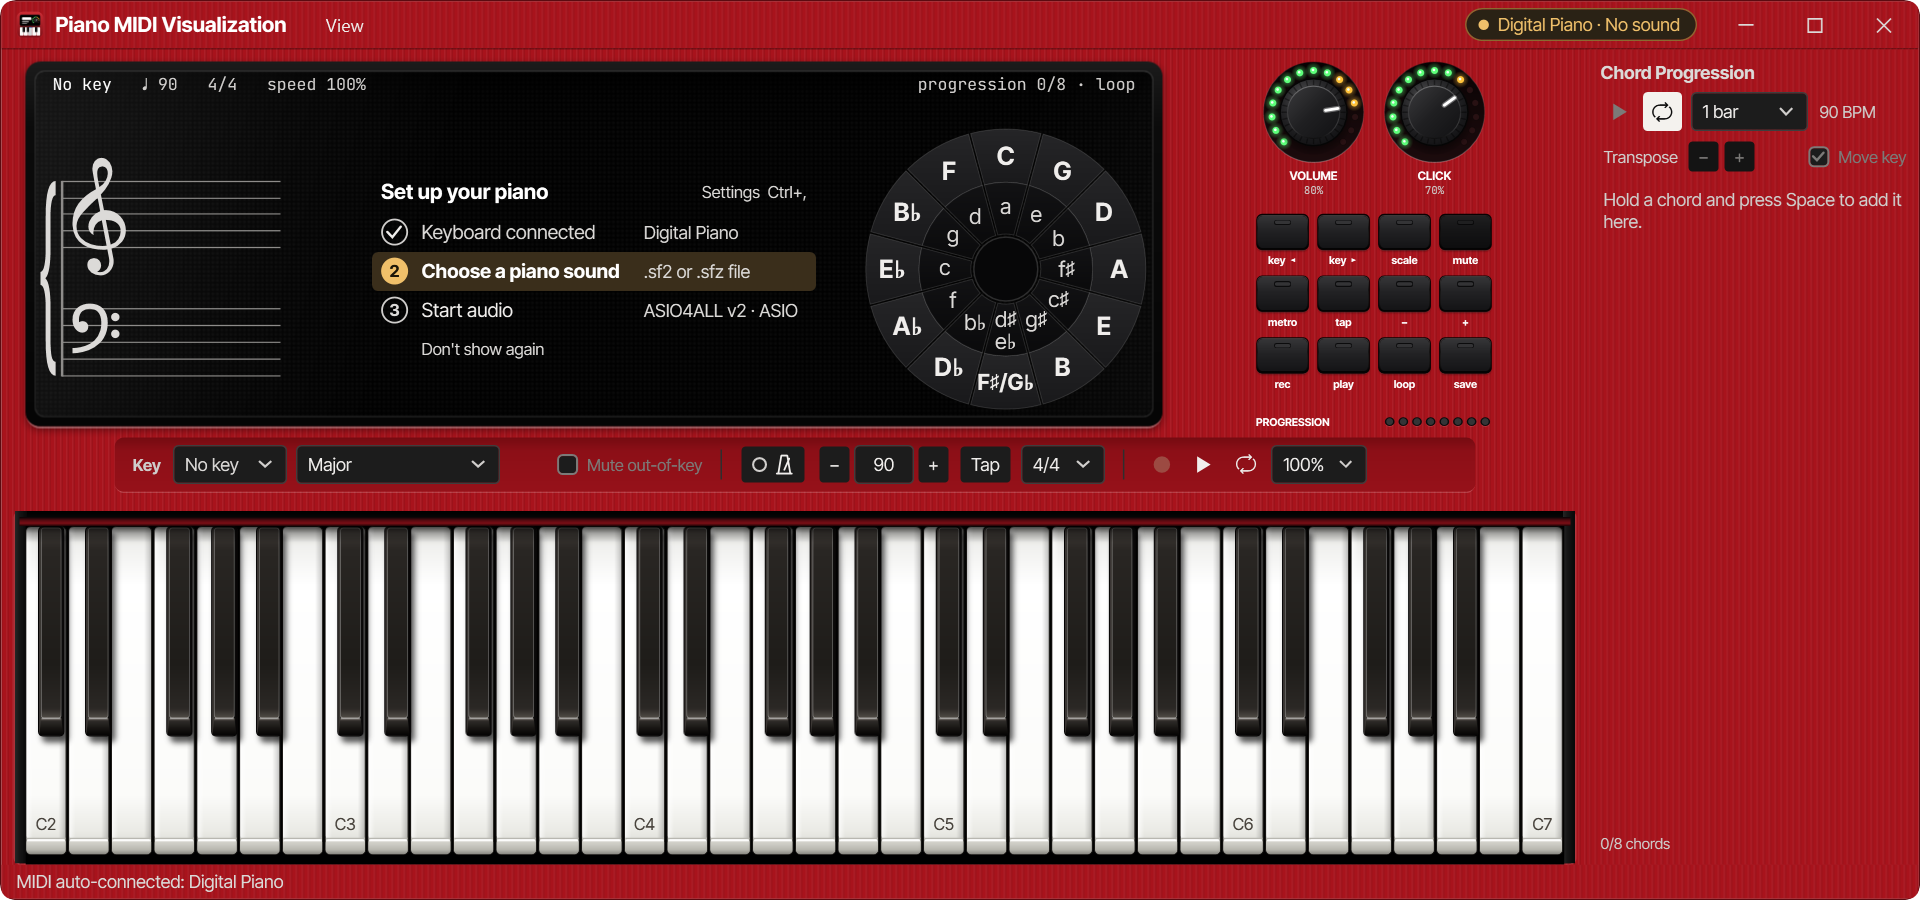
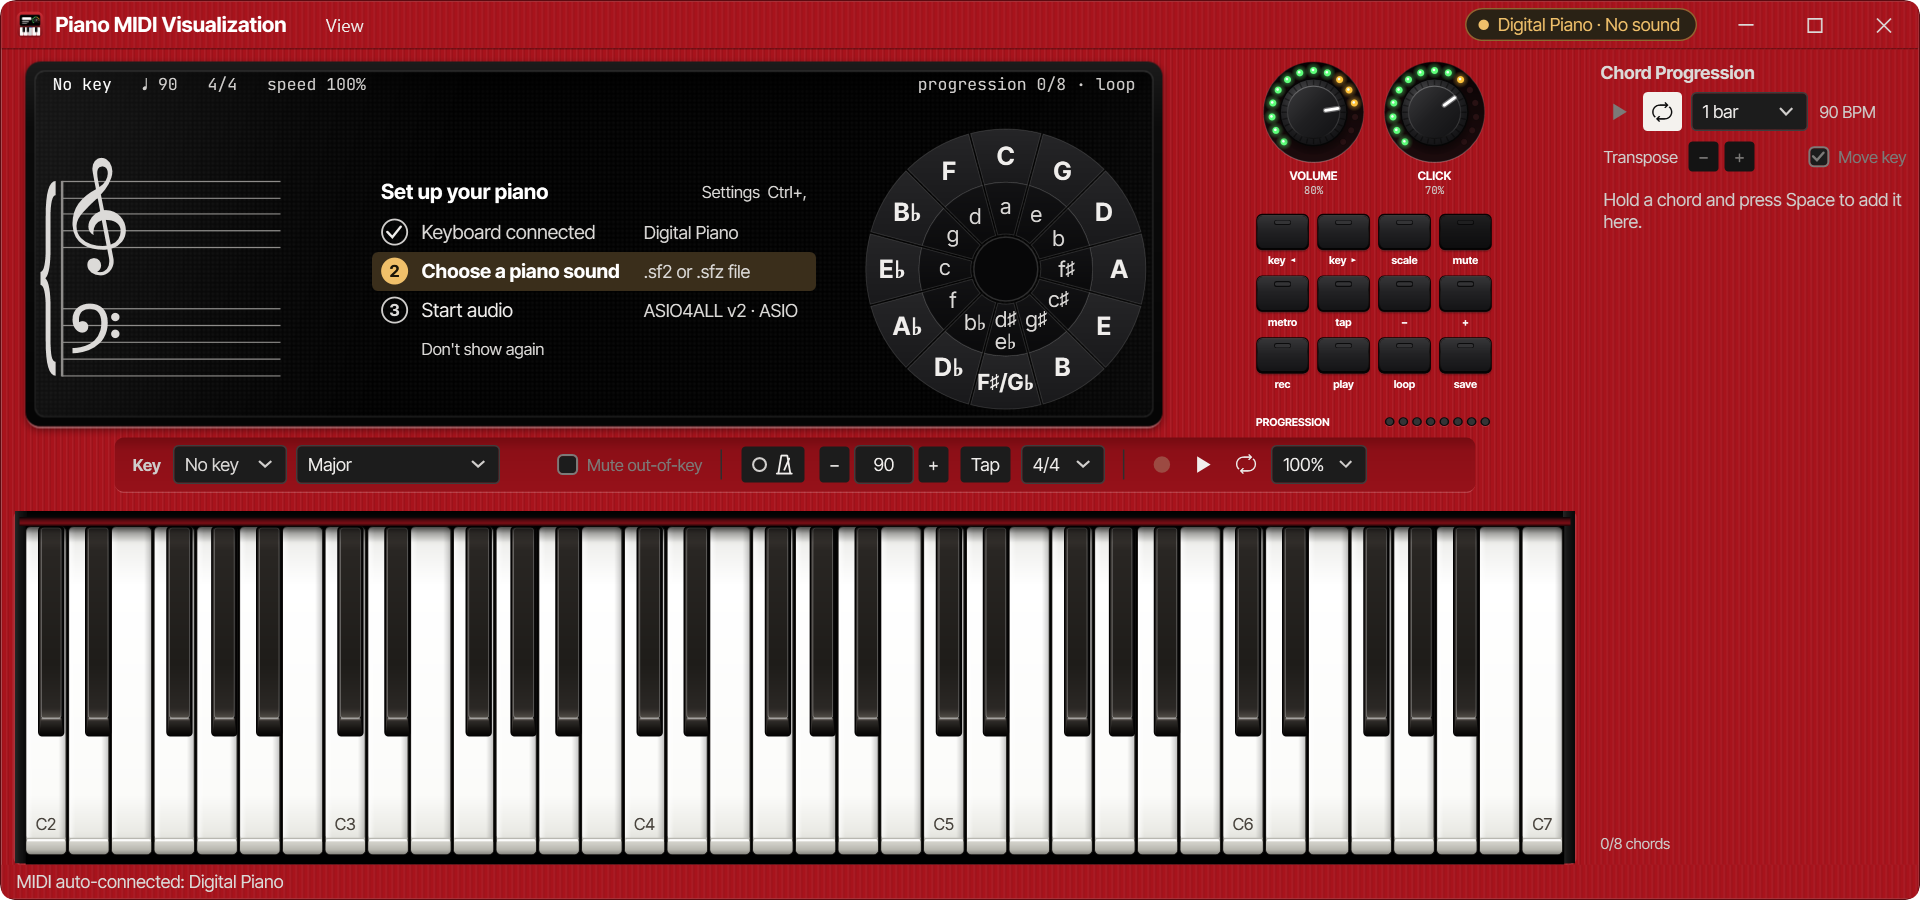
Remove floating drop shadow from black keys so they sit flush in key slots

diff --git a/src/PianoMidiVisualizationApp/Views/PianoKeyboardControl.xaml.cs b/src/PianoMidiVisualizationApp/Views/PianoKeyboardControl.xaml.cs
@@ -46,7 +46,7 @@ public partial class PianoKeyboardControl : UserControl
     private sealed class KeyVisual
     {
         public required Rectangle Body { get; init; }
-        public required DropShadowEffect ShadowEffect { get; init; }
+        public DropShadowEffect? ShadowEffect { get; init; }
         public Rectangle? Chamfer { get; init; }
         public Rectangle? Skirt { get; init; }
         public Line? WhiteRidgeLine { get; init; }
@@ -308,24 +308,17 @@ public partial class PianoKeyboardControl : UserControl
 
     private KeyVisual CreateBlackKey(double x)
     {
-        var shadow = new DropShadowEffect
-        {
-            Color = _palette.Shadow,
-            Direction = 305,
-            ShadowDepth = 4.5,
-            Opacity = 0.68,
-            BlurRadius = 6
-        };
-
+        // Black keys sit directly inside slots cut into the white keys rather than floating above
+        // them: a crisp dark slot seam at the base and sculpted 3D side/nose facets give height
+        // without an offset floating drop shadow.
         var body = new Rectangle
         {
             Width = BlackKeyWidth,
             Height = BlackKeyHeight,
             Stroke = _palette.BlackBorder,
-            StrokeThickness = 0.7,
-            RadiusX = 2.5,
-            RadiusY = 2.5,
-            Effect = shadow
+            StrokeThickness = 1.0,
+            RadiusX = 2.0,
+            RadiusY = 2.0
         };
         Canvas.SetLeft(body, x);
         Canvas.SetTop(body, 0);
@@ -398,7 +391,6 @@ public partial class PianoKeyboardControl : UserControl
         return new KeyVisual
         {
             Body = body,
-            ShadowEffect = shadow,
             BlackTop = top,
             BlackNose = nose,
             BlackRidgeLine = ridgeLine,
@@ -549,15 +541,11 @@ public partial class PianoKeyboardControl : UserControl
 
         if (key.IsBlack)
         {
-            // Depress the 3D ebony prism when held: tighten its shadow, shift the top plane down,
-            // and compress its sloped front nose facet.
+            // Depress the 3D ebony prism when held: shift the top plane down and compress its
+            // sloped front nose facet within the key slot.
             double topY = held ? 2.5 : 1.0;
             double noseH = held ? BlackNosePressedHeight : BlackNoseHeight;
             double topH = BlackKeyHeight - noseH - topY;
-
-            v.ShadowEffect.ShadowDepth = held ? 1.6 : 4.5;
-            v.ShadowEffect.BlurRadius = held ? 2.8 : 6.0;
-            v.ShadowEffect.Opacity = held ? 0.48 : 0.68;
 
             if (v.BlackTop is { } top)
             {
@@ -591,8 +579,11 @@ public partial class PianoKeyboardControl : UserControl
             double skirtH = held ? WhiteSkirtPressedHeight : WhiteSkirtHeight;
             double skirtTop = WhiteKeyHeight - skirtH - 0.5;
 
-            v.ShadowEffect.ShadowDepth = held ? 1.0 : 2.5;
-            v.ShadowEffect.Opacity = held ? 0.3 : 0.45;
+            if (v.ShadowEffect is { } shadow)
+            {
+                shadow.ShadowDepth = held ? 1.0 : 2.5;
+                shadow.Opacity = held ? 0.3 : 0.45;
+            }
 
             if (v.Chamfer is { } chamfer)
                 chamfer.Height = skirtTop;
